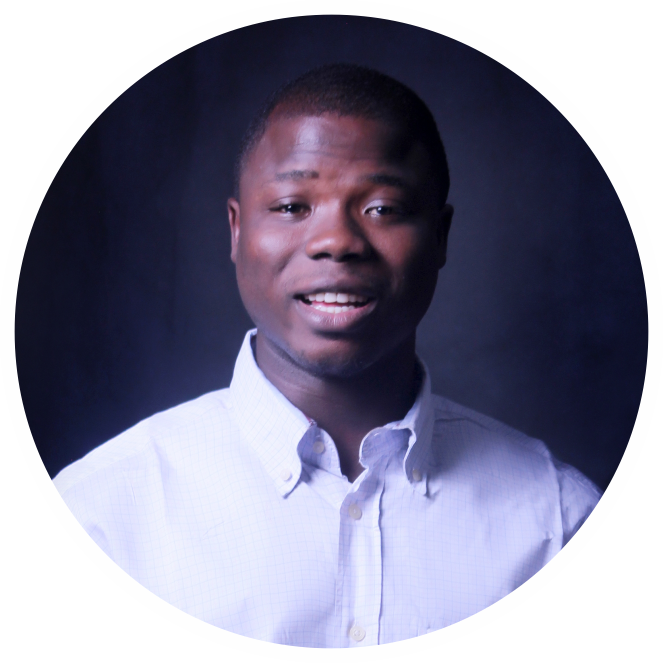
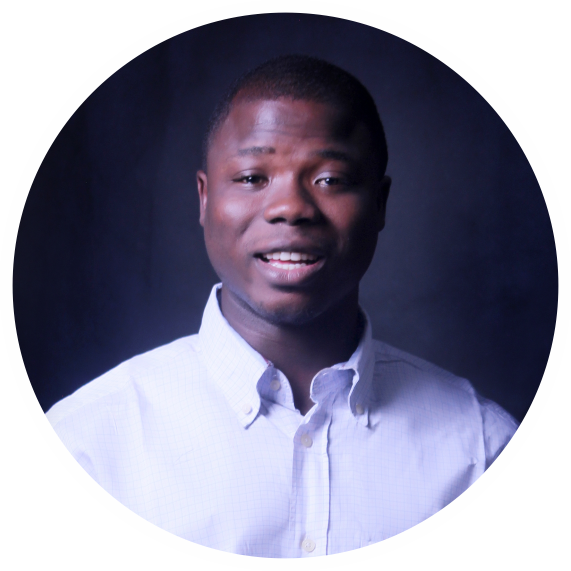
css adjusted

diff --git a/src/Components/About/About.jsx b/src/Components/About/About.jsx
@@ -1,7 +1,7 @@
 import React from 'react'
 import './About.css'
 import theme_pattern from '../../assets/theme_pattern.svg'
-import profile_img from '../../assets/about_profile.svg'
+import profile_img from '../../assets/about_profile.png'
 
 const About = () => {
   return (
@@ -16,14 +16,14 @@ const About = () => {
             </div>
             <div id='about' className="about-right">
                 <div className="about-para">
-                  <p>Lorem ipsum dolor sit amet consectetur adipisicing elit. Libero consectetur veniam veritatis maxime facere laborum dolorum voluptatibus cupiditate totam architecto.</p>  
-                  <p>Lorem ipsum, dolor sit amet consectetur adipisicing elit. Atque pariatur dolores ipsa voluptatum sed doloremque ut vero expedita nobis libero!</p>
+                  <p>With expertise in both front-end and back-end development, I focus on delivering efficient and user-centric solutions. Every project I take on is an opportunity to bring ideas to life and make technology work smarter.</p>  
+                  <p> I thrive on solving complex problems with clean, efficient code and staying updated on emerging technologies. My goal is to bridge the gap between functionality and design to create impactful digital solutions.</p>
                 </div>
                 <div className="about-skills"></div>
-                <div className="about-skill"><p>HTML & CSS</p><hr style={{width:"50%"}}/></div>
-                <div className="about-skill"><p>REACT JS</p><hr style={{width:"70%"}}/></div>
-                <div className="about-skill"><p>JAVASCRIPT</p><hr style={{width:"60%"}}/></div>
-                <div className="about-skill"><p>NODE JS</p><hr style={{width:"50%"}}/></div>
+                <div className="about-skill"><p>HTML & CSS</p><hr style={{width:"40%"}}/></div>
+                <div className="about-skill"><p>REACT JS</p><hr style={{width:"60%"}}/></div>
+                <div className="about-skill"><p>JAVASCRIPT</p><hr style={{width:"50%"}}/></div>
+                <div className="about-skill"><p>NODE JS</p><hr style={{width:"40%"}}/></div>
             </div>
         </div>
         <div className="about-achievments">

diff --git a/src/Components/About/About.css b/src/Components/About/About.css
@@ -95,17 +95,17 @@
 }
 @media (max-width:768px) {
     .about{
-        gap: 80px;
-        margin: 50px 70px;
+        gap: 60px;
+        margin: 10px 10px;
         align-items: start;
     }
     .about-title h1{
-        font-size: 50px;
+        font-size: 40px;
         padding: 0;
     }
     .about-title img{
-        width: 130px;
-        right: -20px;
+        width: 70px;
+        right: -10px;
     }
     .about-sections{
         flex-direction: column;
@@ -115,32 +115,35 @@
     }
     .about-para{
         font-size: 18px;
-        line-height: 32px;
-        margin-top: -50px;
+        line-height: 25px;
+        margin-top: -30px;
     }
     .about-skill{
-        gap: 20px;
+        gap: 0;
         align-items: center;
     }
     .about-skill p{
-        font-size: 20px;
+        font-size: 16px;
 
     }
     .about-skill hr{
         height: 6px;
+        margin-left: -40px;
+        /* width: 30%; */
     }
     .about-achievments{
         justify-content: space-between;
     }
     .about-achievment{
         gap: 10px;
+        margin-right: 40px;
     }
-    .about-achievmenth1{
+    .about-achievment h1{
         font-size: 34px;
         font-weight: 700;
     }
     .about-achievment p{
         text-align: center;
-        font-size: 16px;
+        font-size: 14px;
     }
 }

diff --git a/src/Components/Hero/Hero.css b/src/Components/Hero/Hero.css
@@ -3,10 +3,12 @@
     align-items: center;
     flex-direction: column;
     gap: 35px;
+    
 }
 .hero img{
     margin-top: 150px;
     /* border-radius: 50px; */
+    /* padding-top: px; */
 }
 .hero h1{
     text-align: center;
@@ -59,28 +61,31 @@
         width: 260px;
     }
     .hero h1{
-        margin-top: 50px;
-        width: 90%;
-        font-size: 50px;
+        /* margin-top: 50px; */
+        width: 80%;
+        font-size: 40px;
     }
     .hero p{
-        width: 60%;
+        width: 80%;
         font-size: 18px;
-        line-height: 32px;
-        margin: 10px 0px;
+        line-height: 25px;
+        /* margin: 10px 0px; */
     }
     .hero-action{
         gap: 16px;
-        font-size: 18px;
-        font-weight: 500;
-        margin-bottom: 50px;
+        font-size: 16px;
+        font-weight: 400;
+        margin-bottom: 40px;
     }
     .hero-connect{
-        padding: 20px 30px;
+        padding: 10px 20px;
         border-radius: 40px;
     }
     .hero-resume{
-        padding: 20px 50px;
+        padding: 10px 40px;
         border-radius: 40px;
+    }
+    .hero{
+        margin-top: -100px;
     }
 }

diff --git a/src/Components/Hero/Hero.jsx b/src/Components/Hero/Hero.jsx
@@ -8,7 +8,7 @@ const Hero = () => {
     <div id='home' className='hero'>
         <img src={profile_img} alt="" />
         <h1><span>I'm Tope Bello,</span> a creative full stack developer.</h1>
-        <p>I specialize in developing dynamic, scalable, and innovative web and mobile applications that solve real-world problems withseamless user experiences and robust backend systems</p>
+        <p>I specialize in developing dynamic, scalable, and innovative web and mobile applications that solve real-world problems, with seamless user experiences and robust backend systems.</p>
         <div className="hero-action">
             <div className="hero-connect"><AnchorLink className='anchor-link' offset={50} href='#contact'>Connect with me</AnchorLink></div>
             <div className="hero-resume">My Resume</div>

diff --git a/src/Components/Navbar/Navbar.css b/src/Components/Navbar/Navbar.css
@@ -4,9 +4,6 @@
     justify-content: space-between;
     margin: 20px 170px;
 }
-.navbar .logo-png{
-    /* width: 50px; */
-}
 .nav-menu{
     display: flex;
     align-items: center;
@@ -86,7 +83,7 @@
         gap: 20px;
     }
     .navbar .logo-png{
-        width: 60px;
+        width: 50px;
         margin-top: 20px;
     }
 }
